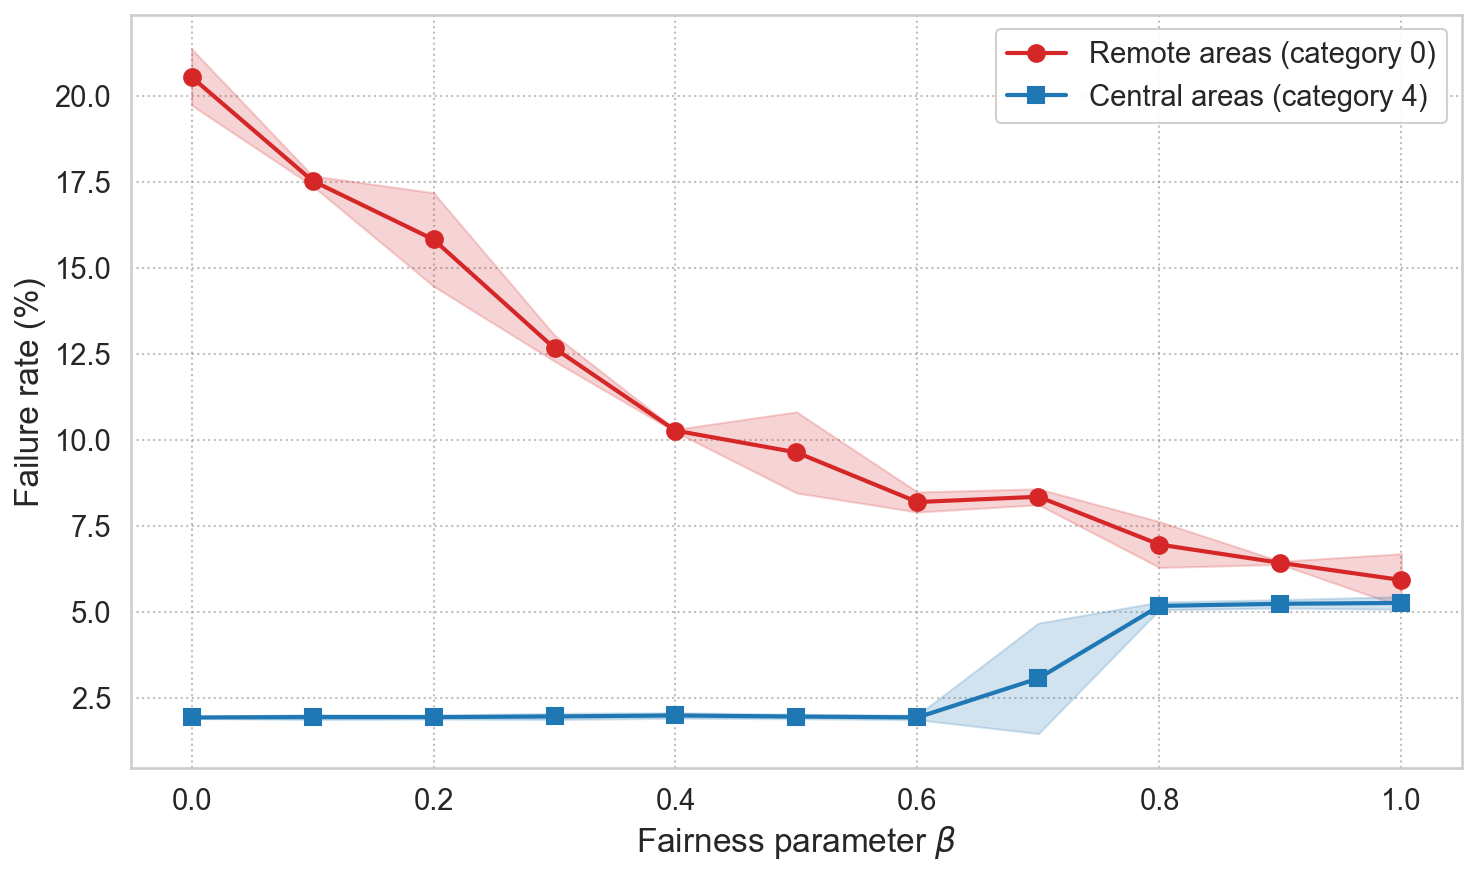
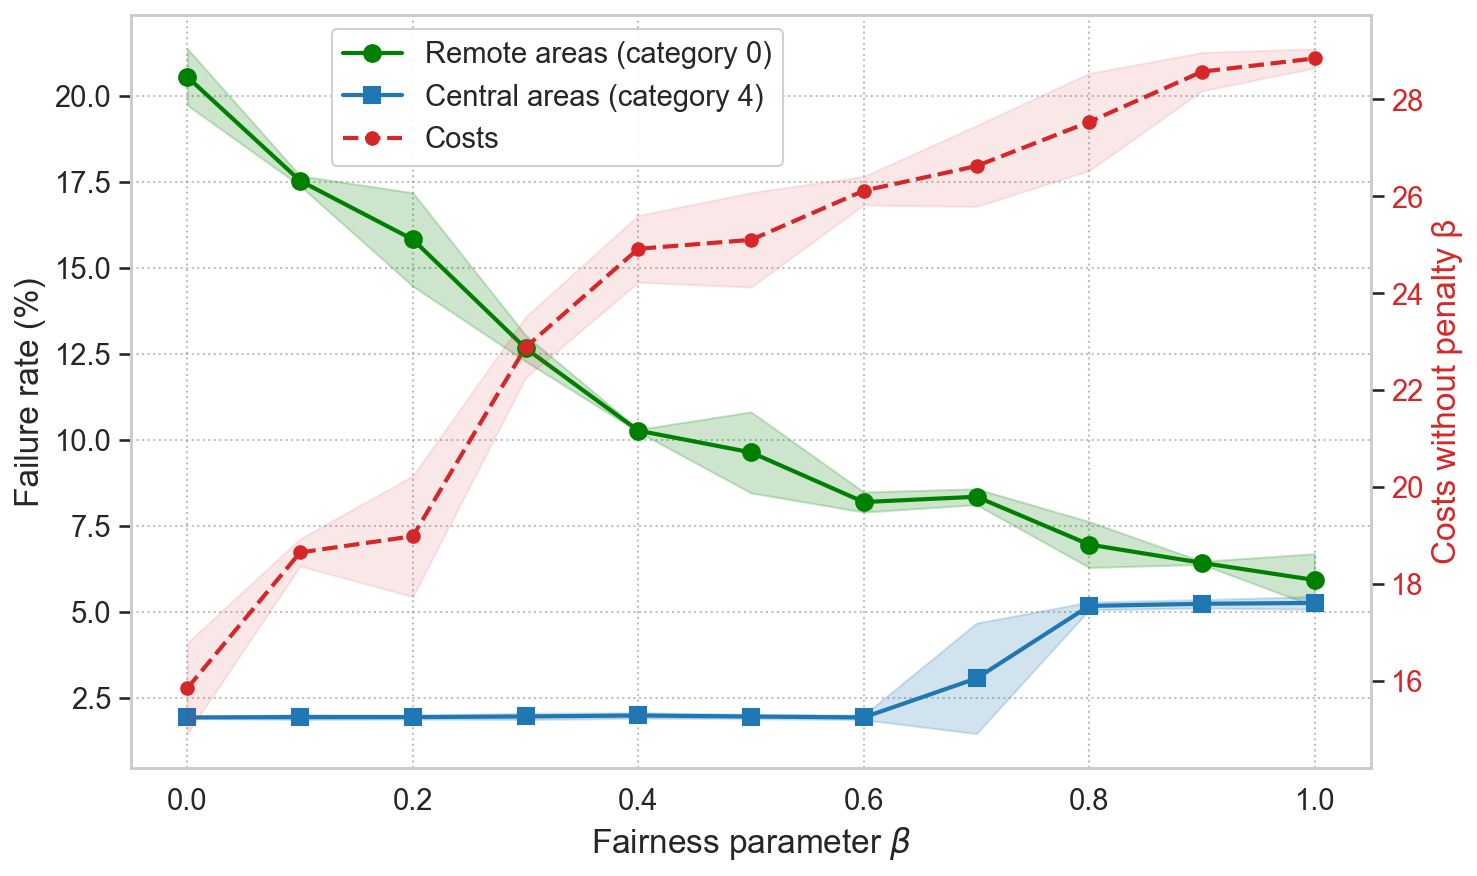
Failure rate analysis (exp 2 in prep. phase report)

diff --git a/preliminary_studies/failure_rate_analysis/compute_costs_no_penalty.py b/preliminary_studies/failure_rate_analysis/compute_costs_no_penalty.py
@@ -1,0 +1,166 @@
+"""
+Compute Costs Without Failure Penalty
+======================================
+
+This script computes the rebalancing + bike costs WITHOUT the failure penalty.
+Uses the same evaluation logic as evaluate_baseline.py but saves costs separately.
+
+Output:
+    results/costs_no_penalty_2_cat_3seeds.npy - (11 betas x 3 seeds)
+"""
+
+import sys
+import os
+
+# Get the directory where this script is located
+SCRIPT_DIR = os.path.dirname(os.path.abspath(__file__))
+
+# Add FairMSS root directory to path to import modules
+FAIRMSS_ROOT = os.path.join(SCRIPT_DIR, '..', '..')
+sys.path.insert(0, FAIRMSS_ROOT)
+
+from environment_2 import FairEnv
+from agent import RebalancingAgent
+from network import generate_network
+from demand import generate_global_demand
+import numpy as np
+import random
+import pickle
+
+# =============================================================================
+# CONFIGURATION
+# =============================================================================
+
+# Seeds used in training
+SEEDS = [100, 101, 102]
+
+# Beta values
+BETAS = [0.0, 0.1, 0.2, 0.3, 0.4, 0.5, 0.6, 0.7, 0.8, 0.9, 1.0]
+
+# Network configuration
+NUM_REMOTE = 60      # Category 0 stations (underserved areas)
+NUM_CENTRAL = 10     # Category 4 stations (well-served areas)
+NUM_STATIONS = NUM_REMOTE + NUM_CENTRAL  # Total: 70
+
+# Evaluation parameters
+NUM_EVAL_DAYS = 101  # Days to run evaluation (first is skipped)
+GAMMA = 20           # Rebalancing cost coefficient
+
+# Demand parameters
+REMOTE_DEMAND_PARAMS = [(0.3, 2), (1.5, 0.3)]
+CENTRAL_DEMAND_PARAMS = [(13.8, 3.6), (6.6, 13.8)]
+
+# Time slots for rebalancing decisions
+TIME_SLOTS = [(0, 12), (12, 24)]
+
+# Cost parameters for rebalancing
+REBALANCING_COST_REMOTE = 1.0
+REBALANCING_COST_CENTRAL = 0.1
+
+# Path to baseline results
+BASELINE_DIR = os.path.join(SCRIPT_DIR, '..', 'baseline')
+
+# =============================================================================
+# MAIN
+# =============================================================================
+
+def main():
+    costs_no_penalty = [[] for _ in range(len(BETAS))]
+
+    for beta in BETAS:
+        beta_index = int(beta * 10)
+        print(f"\nEvaluating beta = {beta}")
+
+        for seed in SEEDS:
+            print(f"  Seed {seed}...", end=" ")
+
+            np.random.seed(seed)
+            random.seed(seed)
+
+            # Load number of bikes
+            bikes_file = os.path.join(BASELINE_DIR, 'results', f'bikes_2_cat_{beta}_{seed}.npy')
+            n_bikes = np.load(bikes_file)
+
+            # Generate network and demand
+            G = generate_network([NUM_REMOTE, NUM_CENTRAL])
+            all_days_demand, transformed_demand = generate_global_demand(
+                [NUM_REMOTE, NUM_CENTRAL],
+                NUM_EVAL_DAYS,
+                [REMOTE_DEMAND_PARAMS, CENTRAL_DEMAND_PARAMS],
+                TIME_SLOTS
+            )
+
+            # Load trained Q-tables
+            agent_remote = RebalancingAgent(0)
+            agent_central = RebalancingAgent(4)
+
+            q_table_remote = os.path.join(BASELINE_DIR, 'q_tables', f'q_table_{beta}_2_{seed}_cat0.pkl')
+            q_table_central = os.path.join(BASELINE_DIR, 'q_tables', f'q_table_{beta}_2_{seed}_cat4.pkl')
+            with open(q_table_remote, "rb") as f:
+                agent_remote.q_table = pickle.load(f)
+            with open(q_table_central, "rb") as f:
+                agent_central.q_table = pickle.load(f)
+
+            agent_remote.set_epsilon(0.0)
+            agent_central.set_epsilon(0.0)
+
+            # Initialize environment
+            eval_env = FairEnv(G, transformed_demand, beta, GAMMA)
+            state = eval_env.reset()
+
+            daily_rebalancing_costs = []
+
+            # Run evaluation
+            for day in range(NUM_EVAL_DAYS):
+                costs = 0
+
+                for time_period in (0, 1):
+                    actions = np.zeros(NUM_STATIONS, dtype=np.int64)
+                    if day > 0:
+                        for station in range(NUM_STATIONS):
+                            if G.nodes[station]['station'] == 0:
+                                actions[station] = agent_remote.decide_action(state[station])
+                            else:
+                                actions[station] = agent_central.decide_action(state[station])
+
+                    next_state, reward, failures = eval_env.step(actions)
+
+                    # Calculate rebalancing costs only
+                    for station, action in enumerate(actions):
+                        if action != 0:
+                            if station < NUM_REMOTE:
+                                costs += REBALANCING_COST_REMOTE
+                            else:
+                                costs += REBALANCING_COST_CENTRAL
+
+                    state = next_state
+
+                if day > 0:
+                    daily_rebalancing_costs.append(costs)
+
+            # Cost = rebalancing_cost + bike_cost (NO failure penalty)
+            total_cost = np.mean(daily_rebalancing_costs) + n_bikes / 100
+
+            costs_no_penalty[beta_index].append(total_cost)
+            print(f"Cost (no penalty)={total_cost:.2f}")
+
+    # Save results
+    results_dir = os.path.join(SCRIPT_DIR, 'results')
+    os.makedirs(results_dir, exist_ok=True)
+    
+    output_file = os.path.join(results_dir, 'costs_no_penalty_2_cat_3seeds.npy')
+    np.save(output_file, costs_no_penalty)
+    print(f"\nSaved: {output_file}")
+
+    # Print summary
+    print("\n" + "=" * 60)
+    print("Summary (Costs without failure penalty):")
+    print("-" * 40)
+    for i, beta in enumerate(BETAS):
+        mean_cost = np.mean(costs_no_penalty[i])
+        std_cost = np.std(costs_no_penalty[i])
+        print(f"Beta {beta:.1f}: {mean_cost:.2f} ± {std_cost:.2f}")
+
+
+if __name__ == "__main__":
+    main()

diff --git a/preliminary_studies/failure_rate_analysis/plot_failure_rates.py b/preliminary_studies/failure_rate_analysis/plot_failure_rates.py
@@ -29,6 +29,8 @@ SCRIPT_DIR = os.path.dirname(os.path.abspath(__file__))
 # Input files
 REMOTE_FILE = os.path.join(SCRIPT_DIR, 'results', 'failure_rate_remote_2_cat_3seeds.npy')
 CENTRAL_FILE = os.path.join(SCRIPT_DIR, 'results', 'failure_rate_central_2_cat_3seeds.npy')
+COSTS_NO_PENALTY_FILE = os.path.join(SCRIPT_DIR, 'results', 'costs_no_penalty_2_cat_3seeds.npy')
+#COSTS_NO_PENALTY_FILE = os.path.join(SCRIPT_DIR, 'results', 'bike_costs_2_cat_3seeds.npy') # same as n_bikes_2_cat_3seeds / 100
 
 # Output directory
 OUTPUT_DIR = os.path.join(SCRIPT_DIR, 'plots')
@@ -45,6 +47,17 @@ def main():
     # Shape: (11 betas, 3 seeds)
     failure_rate_remote = np.load(REMOTE_FILE)
     failure_rate_central = np.load(CENTRAL_FILE)
+    
+    # Load costs data if available
+    if os.path.exists(COSTS_NO_PENALTY_FILE):
+        costs_data = np.load(COSTS_NO_PENALTY_FILE)
+        costs_mean = np.array([np.mean(costs_data[i]) for i in range(len(BETAS))])
+        costs_std = np.array([np.std(costs_data[i]) for i in range(len(BETAS))])
+        print(f"Loaded costs: {costs_data.shape}")
+    else:
+        costs_mean = None
+        costs_std = None
+        print(f"Costs file not found: {COSTS_NO_PENALTY_FILE}")
 
     print(f"Loaded remote failure rates: {failure_rate_remote.shape}")
     print(f"Loaded central failure rates: {failure_rate_central.shape}")
@@ -61,12 +74,12 @@ def main():
     fig, ax = plt.subplots(figsize=(10, 6), dpi=100)
 
     # Plot remote areas (category 0)
-    ax.plot(BETAS, remote_mean, 'o-', color='#d62728', linewidth=2,
+    ax.plot(BETAS, remote_mean, 'o-', color='green', linewidth=2,
             markersize=8, label='Remote areas (category 0)')
     ax.fill_between(BETAS,
                      remote_mean - remote_std,
                      remote_mean + remote_std,
-                     color='#d62728', alpha=0.2)
+                     color='green', alpha=0.2)
 
     # Plot central areas (category 4)
     ax.plot(BETAS, central_mean, 's-', color='#1f77b4', linewidth=2,
@@ -76,11 +89,37 @@ def main():
                      central_mean + central_std,
                      color='#1f77b4', alpha=0.2)
 
+    # Create secondary y-axis for costs
+    ax2 = ax.twinx()
+    
+    # Plot costs on secondary axis (dotted line)
+    if costs_mean is not None:
+        ax2.plot(BETAS, costs_mean, 'o--', color='#d62728', linewidth=2,
+                markersize=6, label='Costs')
+        ax2.fill_between(BETAS,
+                         costs_mean - costs_std,
+                         costs_mean + costs_std,
+                         color='#d62728', alpha=0.1)
+        ax2.set_ylabel('Costs without penalty β', fontsize=16, color='#d62728')
+        ax2.tick_params(axis='y', labelcolor='#d62728', labelsize=14)
+        # Disable grid lines for secondary axis
+        ax2.grid(False)
+
     # Labels and formatting
     ax.set_xlabel(r'Fairness parameter $\beta$', fontsize=16)
     ax.set_ylabel('Failure rate (%)', fontsize=16)
     ax.tick_params(labelsize=14)
-    ax.legend(fontsize=14, loc='best', framealpha=0.9)
+    
+    # Combine legends from both axes
+    lines1, labels1 = ax.get_legend_handles_labels()
+    bbox_to_anchor=(0.15, 1)
+    if costs_mean is not None:
+        lines2, labels2 = ax2.get_legend_handles_labels()
+        ax.legend(lines1 + lines2, labels1 + labels2, fontsize=14, 
+                  loc='upper left', bbox_to_anchor=bbox_to_anchor, framealpha=0.9)
+    else:
+        ax.legend(fontsize=14, loc='upper left', bbox_to_anchor=bbox_to_anchor, framealpha=0.9)
+    
     ax.grid(True, which='major', linestyle=':', linewidth=1, color='grey', alpha=0.5)
 
     plt.tight_layout()

diff --git a/preliminary_studies/failure_rate_analysis/compute_bike_costs.py b/preliminary_studies/failure_rate_analysis/compute_bike_costs.py
@@ -1,0 +1,61 @@
+"""
+Compute Bike Costs Only
+========================
+
+Extracts just the bike cost component: n_bikes / 100
+Uses already-saved bikes data from baseline.
+
+Output:
+    results/bike_costs_2_cat_3seeds.npy - (11 betas x 3 seeds)
+"""
+
+import os
+import numpy as np
+
+# Get the directory where this script is located
+SCRIPT_DIR = os.path.dirname(os.path.abspath(__file__))
+
+# Configuration
+SEEDS = [100, 101, 102]
+BETAS = [0.0, 0.1, 0.2, 0.3, 0.4, 0.5, 0.6, 0.7, 0.8, 0.9, 1.0]
+
+# Path to baseline results
+BASELINE_DIR = os.path.join(SCRIPT_DIR, '..', 'baseline')
+
+def main():
+    bike_costs = [[] for _ in range(len(BETAS))]
+
+    for beta in BETAS:
+        beta_index = int(beta * 10)
+
+        for seed in SEEDS:
+            # Load number of bikes
+            bikes_file = os.path.join(BASELINE_DIR, 'results', f'bikes_2_cat_{beta}_{seed}.npy')
+            n_bikes = np.load(bikes_file)
+            
+            # Bike cost = n_bikes / 100
+            bike_cost = n_bikes / 100
+            bike_costs[beta_index].append(bike_cost)
+            
+            print(f"Beta {beta}, Seed {seed}: n_bikes={n_bikes}, bike_cost={bike_cost:.2f}")
+
+    # Save results
+    results_dir = os.path.join(SCRIPT_DIR, 'results')
+    os.makedirs(results_dir, exist_ok=True)
+    
+    output_file = os.path.join(results_dir, 'bike_costs_2_cat_3seeds.npy')
+    np.save(output_file, bike_costs)
+    print(f"\nSaved: {output_file}")
+
+    # Print summary
+    print("\n" + "=" * 40)
+    print("Summary (Bike costs only = n_bikes/100):")
+    print("-" * 40)
+    for i, beta in enumerate(BETAS):
+        mean_cost = np.mean(bike_costs[i])
+        std_cost = np.std(bike_costs[i])
+        print(f"Beta {beta:.1f}: {mean_cost:.2f} ± {std_cost:.2f}")
+
+
+if __name__ == "__main__":
+    main()

diff --git a/preliminary_studies/failure_rate_analysis/extract_n_bikes.py b/preliminary_studies/failure_rate_analysis/extract_n_bikes.py
@@ -1,0 +1,58 @@
+"""
+Extract Number of Bikes in System
+==================================
+
+Extracts the total number of bikes (n_bikes) from baseline results.
+
+Output:
+    results/n_bikes_2_cat_3seeds.npy - (11 betas x 3 seeds)
+"""
+
+import os
+import numpy as np
+
+# Get the directory where this script is located
+SCRIPT_DIR = os.path.dirname(os.path.abspath(__file__))
+
+# Configuration
+SEEDS = [100, 101, 102]
+BETAS = [0.0, 0.1, 0.2, 0.3, 0.4, 0.5, 0.6, 0.7, 0.8, 0.9, 1.0]
+
+# Path to baseline results
+BASELINE_DIR = os.path.join(SCRIPT_DIR, '..', 'baseline')
+
+def main():
+    n_bikes_all = [[] for _ in range(len(BETAS))]
+
+    for beta in BETAS:
+        beta_index = int(beta * 10)
+
+        for seed in SEEDS:
+            # Load number of bikes
+            bikes_file = os.path.join(BASELINE_DIR, 'results', f'bikes_2_cat_{beta}_{seed}.npy')
+            n_bikes = np.load(bikes_file)
+            
+            n_bikes_all[beta_index].append(float(n_bikes))
+            
+            print(f"Beta {beta}, Seed {seed}: n_bikes = {n_bikes}")
+
+    # Save results
+    results_dir = os.path.join(SCRIPT_DIR, 'results')
+    os.makedirs(results_dir, exist_ok=True)
+    
+    output_file = os.path.join(results_dir, 'n_bikes_2_cat_3seeds.npy')
+    np.save(output_file, n_bikes_all)
+    print(f"\nSaved: {output_file}")
+
+    # Print summary
+    print("\n" + "=" * 40)
+    print("Summary (Number of bikes in system):")
+    print("-" * 40)
+    for i, beta in enumerate(BETAS):
+        mean_bikes = np.mean(n_bikes_all[i])
+        std_bikes = np.std(n_bikes_all[i])
+        print(f"Beta {beta:.1f}: {mean_bikes:.0f} ± {std_bikes:.0f} bikes")
+
+
+if __name__ == "__main__":
+    main()

diff --git a/preliminary_studies/failure_rate_analysis/evaluate_failure_rates.py b/preliminary_studies/failure_rate_analysis/evaluate_failure_rates.py
@@ -12,7 +12,7 @@ Configuration:
 - Same 3 seeds x 11 beta values = 33 evaluations
 - 2-category case (remote + central)
 
-Output (saved to results/ folder):
+Output:
     results/failure_rate_remote_2_cat_3seeds.npy  - Remote failure rates (11 betas x 3 seeds)
     results/failure_rate_central_2_cat_3seeds.npy - Central failure rates (11 betas x 3 seeds)
 """
@@ -51,7 +51,7 @@ NUM_CENTRAL = 10     # Category 4 stations (well-served areas)
 NUM_STATIONS = NUM_REMOTE + NUM_CENTRAL  # Total: 70
 
 # Evaluation parameters
-NUM_EVAL_DAYS = 101  # Days to run evaluation
+NUM_EVAL_DAYS = 101  # Days to run evaluation (1 discarded later)
 GAMMA = 20           # Rebalancing cost coefficient
 
 # Demand parameters (Skellam distribution: difference of two Poisson)
